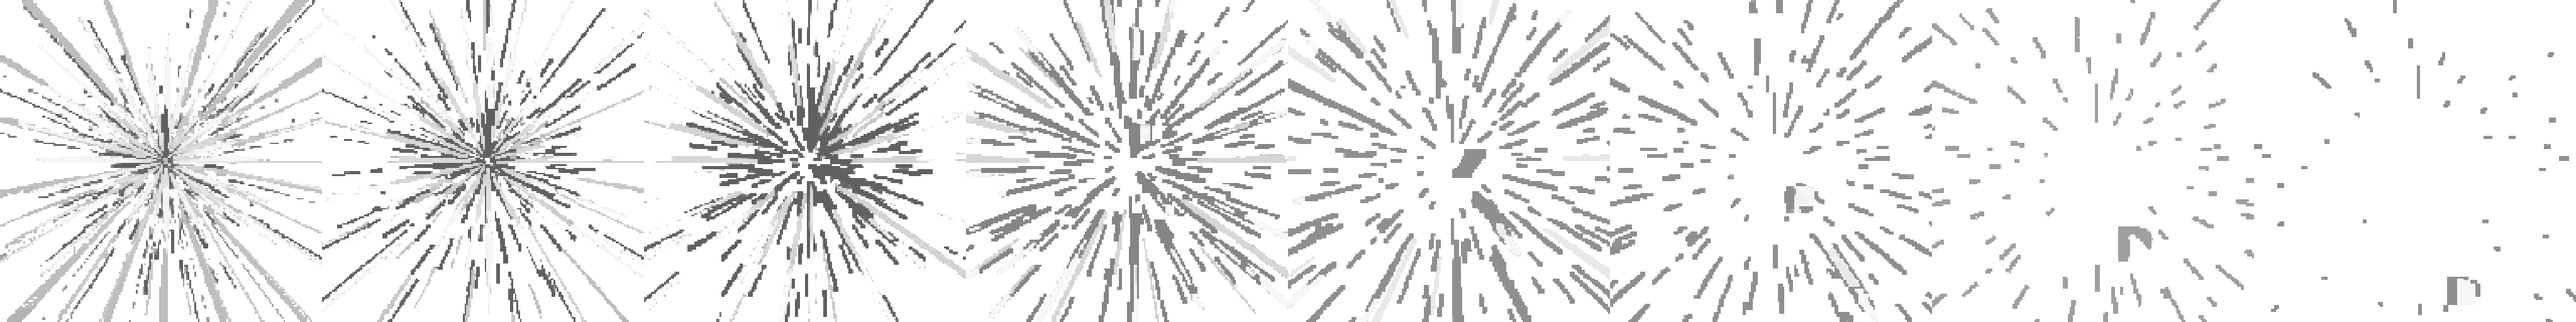
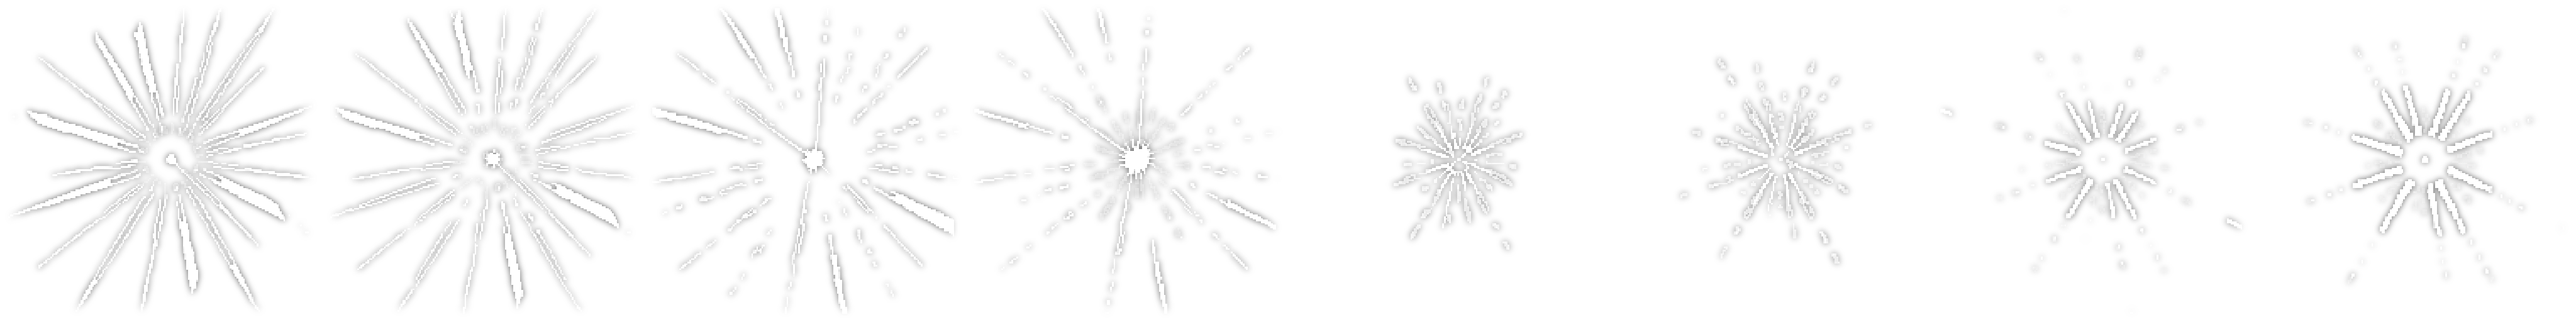
feat(art): pilot - the Seeker's strike, regenerated through the fading pipeline (pending review)
ONE strip, as asked. The other 66 are untouched and not approved.

fx_seeker_strike_strip8_512 is regenerated from PixelLab (pixen 83b78398 + animate_image bc6dcbd0) and
filed by `fxclips.py seeker strike=bc6dcbd0...` - fetch, clip.py --effect, whiten, glow, soften, feather.
The installed bytes equal a step-by-step scratch run of the same stages. Same key, path, 4096x512,
8 frames, 12 fps; HuntScreen.FxFor resolves it (RH_VFX_DUMP, UI 100/125/150), not the fx_strike fallback.

  check_fx_edges   edge 255 -> 0   soft 0.00% -> 22.73%   (border ring hot 12.41% -> 0%)

THE RECTANGLE IS GONE, AND SO IS MOST OF THE LIGHT. VfxPlayer draws with BlendState.Additive
(SourceAlpha, One) over textures AssetLibrary premultiplies at load, so every texel adds rgb*a*a. One-bit
art hid it (a^2 = a); the new post-pass exists to make partial alpha, and the renderer squares every
value it makes. In game the signature is three or four faint streaks. That is a renderer decision for
the owner - a premultiplied-correct blend, or a sqrt(alpha) bake in the post-pass - and it has to be made
before any batch. Not changed here.

check_fx_edges.py takes optional paths now (a candidate is measured before it is installed). It is still
NOT in check_all.sh.

Evidence, drift, thresholds, cost (32 generations): production/qa/evidence/vfx-pilot/README.md
Design: design/art/arena-art-contract.md sections 3.3, 3.6, 6, 7

Claude-Session: https://claude.ai/code/session_01Bb6XvE6tMv4Yt1LA8WidVt

diff --git a/tools/check_fx_edges.py b/tools/check_fx_edges.py
@@ -1,7 +1,8 @@
 #!/usr/bin/env python3
 """Every VFX strip must fade into the scene instead of ending on a rectangle.
 
-    python3 tools/check_fx_edges.py
+    python3 tools/check_fx_edges.py                 # every strip in assets/art/VFX
+    python3 tools/check_fx_edges.py <strip.png>...  # just these (a candidate, before install)
 
 TWO RULES, AND THE SECOND ONE IS THE POINT.
 
@@ -107,8 +108,11 @@ def check(path):
     return problems, worst_edge, share
 
 
-def main():
-    paths = sorted(glob.glob("assets/art/VFX/*/fx_*_strip8_512.png"))
+def main(argv=None):
+    # Named strips are measured instead of the library — how a single regenerated candidate is
+    # compared against the production strip it would replace, before either is installed.
+    named = list(sys.argv[1:] if argv is None else argv)
+    paths = named or sorted(glob.glob("assets/art/VFX/*/fx_*_strip8_512.png"))
     if not paths:
         print("   no VFX strips found", file=sys.stderr)
         return 1

diff --git a/production/qa/evidence/vfx-pilot/README.md b/production/qa/evidence/vfx-pilot/README.md
@@ -1,0 +1,124 @@
+# VFX regeneration pilot — `fx_seeker_strike`
+
+**Date** 2026-09-23 · **Branch** `fix/vfx-fade` · **Type** Visual/Feel (advisory) + pipeline proof
+**Scope** ONE strip. The other 66 were not touched and are not approved.
+**Verdict** Pipeline mechanically PROVEN. Candidate visually **NOT ACCEPTABLE AS IS**: the rectangle is
+gone, but under the current renderer the Seeker's signature has lost most of its light. That comes from
+the VFX blend state, not from the asset, and it has to be decided before any batch.
+
+---
+
+## What was run (the existing path, nothing parallel)
+
+PixelLab MCP (subscription, Tier 2): `create_image_pixen(192², no_background, view=side, direction=west)`
+→ `animate_image(first_frame_url=<pixen download>, frame_count=8)` →
+`python tools/asset-pipeline/v2/fxclips.py seeker strike=bc6dcbd0-43d5-4b84-b4d3-bde8f715380e`
+(fetch → `clip.py job --effect` → whiten → glow → soften → feather). The installed file is
+**byte-identical** (SHA-1 `0cf83738…`) to a step-by-step run of the same four stages in scratch, so the
+tool, not a hand edit, produced it. No runtime clipping or scissoring was added.
+
+Identity kept: commit 8596685's "a puncture burst for the knife stab". The shape prompt was
+*"a solid white burst of about twelve thick sharp shards flying outward from one point in the centre,
+each shard a long narrow white triangle pointing outward…"*. The animation was *"the white shards split
+into short sharp splinters that drift slowly outward from the centre…"*.
+
+## Measurements
+
+| | OLD (production) | NEW (installed) |
+|---|---|---|
+| `check_fx_edges` EDGE: worst border alpha | **255** | **0** |
+| `check_fx_edges` SOFT: partial alpha, strided sample | **0.00 %** | **22.73 %** |
+| border ring with alpha > 8 | 12.41 % | 0.00 % |
+| border ring with alpha > 200 | 12.41 % | 0.00 % |
+| distinct alpha values | 2 | 256 |
+| partial share of lit pixels | 0.0 % | 99.91 % |
+| lit share of the strip | 21.32 % | 22.69 % |
+| minimum margin to frame edge (px of 512) | 0 in every frame | 11–109 |
+| mean alpha of lit pixels | 255 | 41–64 |
+| `rhart.py gate --effect` | PASS (the old gate never saw the defect) | PASS |
+
+Library-wide, `check_fx_edges.py` (still run by hand, **not** in `check_all.sh`) goes from 61 to 60 of 67
+failing. Only this strip changed.
+
+## Runtime proof
+
+- **Lookup.** The game's own `RH_VFX_DUMP` at the signature cast (8200 ms):
+  `cast.strike key=fx_seeker_strike_strip8_512 subj=Creature/0 frame=1175,685,141,141 content=1178,689,136,135 ratio=0.276`.
+  HuntScreen draws the Seeker's strip, not the `fx_strike` fallback. It resolves the same way at UI 100,
+  125 and 150 %.
+- **Geometry.** 4096×512 RGBA, 8 square frames, same path and key. Source rect is unchanged
+  (`CurrentFrame × 512, 0, 512, 512`). The destination is content-driven: the visible size held at
+  135→136 px on a swarm creature and 287→289 px on a boss. The frame grew 135→141 px and 287→301 px
+  because the content box is 0.96 of the frame now, not 1.00. The ratio went 0.263→0.276 and 0.560→0.587,
+  both still `Under`. Every other line of the `RH_VFX_BUDGET` ledger is byte-identical.
+- **Timing.** No code touched. `CastStrike` is still 12 fps × 8 frames = 0.667 s with the 35 % cubed
+  tail fade.
+- **Gates.** `-warnaserror` 0/0; Core 1,850 · Game 707 · Integration 2 passed, 0 failed;
+  `tools/check_all.sh` all green.
+
+## Visual review (02_ingame_before_after.png, 03_runtime_simulation.png)
+
+| Question | Answer |
+|---|---|
+| Rectangle impression gone? | **Yes.** The old strip reads in game as a square block of red lines; the new one is round. |
+| Rays / shards fade naturally? | **Yes.** The tips taper into the feather band, and nothing is cut. |
+| Readable at combat size? | **No, not as installed.** In game it is three or four faint red streaks at 135 px. With the blend corrected it reads as a soft shard burst. |
+| Softening muddy? | On thin art, yes (the B2 needle candidate turned to haze). On the bold shards it is acceptable. |
+| Glow too bright? | The opposite: far too dim (see the cause below). |
+| Still the Seeker / the game's language? | Yes: white shards, Body tint, the same burst-then-splinter arc as the old strip. |
+| Motion flaw | Frames 1–4 are the puncture. At frame 5 it jumps to a small cluster and re-bursts (see *Prompt drift*). |
+
+## THE CAUSE OF THE DIMNESS — the blend, which one-bit art had been hiding
+
+`VfxPlayer` draws with `BlendState.Additive` (`SourceAlpha, One`), and `AssetLibrary` **premultiplies**
+every texture at load. So each texel adds `rgb·α·α`, and light goes as **α²**. The `glow` step had
+already set α := α × luminance, which makes it roughly α²·lum³.
+
+With one-bit art α² = α, so this never showed. The new post-pass exists to produce partial alpha, and
+the renderer squares every partial value it makes: a softened pixel at α = 0.5 gives 25 % light, and a
+blurred needle at α = 0.2 gives 4 %. The pipeline change in `0bdb9fe` was written without accounting
+for this.
+
+The bottom row of 02 is an **experiment that was not installed**: the same strip with α' = √α baked in,
+which cancels the square exactly for this path. It shows what the fix buys.
+
+## Prompt drift — yes, again, in four ways
+
+1. **Containment.** pixen ignores "small / halfway to the edge / nothing touches the edges" whenever
+   the subject is BOLD: all 5 bold prompts filled the canvas to 0–11 px of the edge. Of the 7 shapes,
+   only the thin, sparse needle burst (B) stayed contained, and thin art cannot be read at a 0.28× draw.
+2. **Literalism.** "a bright round white core" became a sun disc. "Nothing in the middle" became an
+   opaque transparency **checkerboard** (whiten would lift it to grey). "No disc" produced a black disc.
+3. **animate_image does not end.** "Keep a clear visible remnant in every frame" still returned two
+   empty final frames in one clip of five, and that clip also collapsed halfway. B2 and E2 collapse and
+   re-burst in their second half, C1 grows back to full size, and E1 cuts to an unrelated X glyph. The
+   model pulls an open-ended clip back toward a cycle.
+4. **spec.json is stale.** `effects.items` still says "fades out completely by the last frame" and
+   "at the right edge", both of which the contract forbids. The batch must not use them as written.
+
+First-try rates here: 2 of 7 shapes usable (B, E), and **0 of 5 animations clean** (B2 and E2 usable
+with a flaw).
+
+## `check_fx_edges.py` thresholds
+
+- **EDGE_MAX = 24 is right.** Under the α² blend a border alpha of 24 is 0.9 % light, which is invisible.
+  It is not too strict.
+- **SOFT_MIN = 2 % is too weak as a quality signal.** The thin B2 candidate, which was nearly invisible
+  in the simulation, passes at 8.9 %. The rule proves "not one-bit". It cannot prove "still has a core".
+  A missing rule is a **CORE** check, for example that every frame keeps some pixels at α ≥ 224, or a
+  minimum share of the pre-soften light. E2's frames 4–6 peak at α 161–168 and would be flagged.
+  Not implemented; this is a recommendation.
+
+## Cost
+
+**32 generations** (balance 4,460 → 4,428): 7 pixen shapes × 1 plus 5 animate_image × 5.
+Every job id is in `04_all_generations.png`.
+
+## Rig note (not a game bug)
+
+`capture_seq.sh` counts **Draws**, and each full-canvas PNG save makes the next Draw late, so MonoGame's
+fixed step runs several catch-up Updates. The saved frames are therefore spaced by save latency, not by
+stride × 16.7 ms: effects and callouts that live about 0.6 s show on 2–3 saved frames. Its "x100ms"
+label is a static default. That is why frames beyond the first two are evidenced by
+`03_runtime_simulation.png` (bilinear minification without mips, the α² blend, the Body tint, over the
+real arena crop), which reproduces the in-game first frames.
